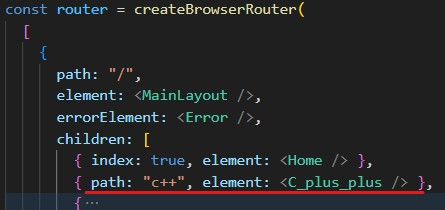
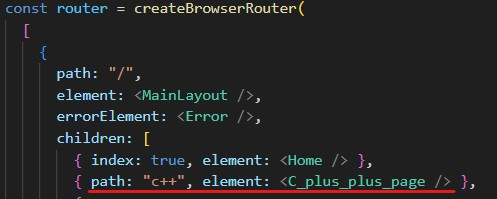
08-07-2025 18:03

diff --git a/src/pages/PageCreate/PageCreateComponents/SpecificationDocsPkg/CreateStepsSection/CreateStep3.tsx b/src/pages/PageCreate/PageCreateComponents/SpecificationDocsPkg/CreateStepsSection/CreateStep3.tsx
@@ -31,4 +31,4 @@ const CreateStep3 = ({ anchor }: { anchor: string }) => {
 
 export default CreateStep3;
 
-const jsxCode_3 = `{ path: "c++", element: <C_plus_plus /> },`;
+const jsxCode_3 = `{ path: "c++", element: <C_plus_plus_page /> },`;
